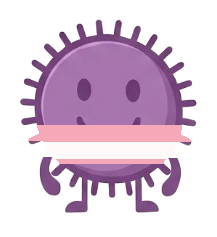
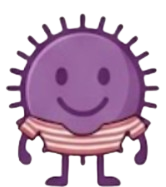
sprite

diff --git a/frontend/src/screens/GameScreen.jsx b/frontend/src/screens/GameScreen.jsx
@@ -11,9 +11,9 @@ import CliffJumpGame from './CliffJumpGame';
 import CliffDashGame from './CliffDashGame';
 import TumbleGame      from './TumbleGame';
 import HillDriveGame   from './HillDriveGame';
-import DormitorioSection, { ACCESORIOS } from '../components/DormitorioSection';
+import DormitorioSection from '../components/DormitorioSection';
 import SheepCountingGame from './SheepCountingGame';
-import AccesorioOverlay, { TrajeMarineroOverlay } from '../components/AccesorioOverlay';
+import AccesorioOverlay from '../components/AccesorioOverlay';
 
 
 import { sumarMoneda, CoinIcon } from '../utils/coinHelper';
@@ -73,7 +73,7 @@ const SPRITE_POR_SALTAR = '/juego/movimiento-mascota/por-saltar/por_saltar.png';
 const SPRITE_JUMP = '/juego/movimiento-mascota/satando/mascota-jump.png';
 const SPRITE_CAIDA = '/juego/movimiento-mascota/caida/mascota-caida.png';
 const SPRITE_COMPRESA = '/juego/compresa.png';
-const SPRITE_FALLBACK = '/home-walk-sit-float/mascota-flotando.png';
+const SPRITE_FALLBACK = '/home-walk-sit-float/flotando/mascota-flotando.png';
 
 // Tiempo de anticipación (frame "por saltar") antes del salto real
 const DURACION_POR_SALTAR_MS = 140;
@@ -582,77 +582,9 @@ export default function GameScreen({ onGameActiveChange }) {
                 }}
               />
 
-              {/* Accesorio equipado perfectamente posicionado en Nuvia */}
-              {accesorioEquipado && accesorioEquipado !== 'ninguno' && (() => {
-                const acc = ACCESORIOS.find(a => a.id === accesorioEquipado);
-                if (!acc) return null;
-
-                if (acc.id === 'zapatillas_conejo') {
-                  return (
-                    <>
-                      <div style={{
-                        position: 'absolute',
-                        bottom: '14px',
-                        left: '36px',
-                        fontSize: '22px',
-                        pointerEvents: 'none',
-                        zIndex: 5,
-                        filter: 'drop-shadow(0 3px 6px rgba(0,0,0,0.3))',
-                        transform: 'scaleX(-1)'
-                      }}>
-                        🐰
-                      </div>
-                      <div style={{
-                        position: 'absolute',
-                        bottom: '14px',
-                        right: '36px',
-                        fontSize: '22px',
-                        pointerEvents: 'none',
-                        zIndex: 5,
-                        filter: 'drop-shadow(0 3px 6px rgba(0,0,0,0.3))'
-                      }}>
-                        🐰
-                      </div>
-                    </>
-                  );
-                }
-
-                if (acc.id === 'traje_marinero') {
-                  return <TrajeMarineroOverlay width={86} height={56} top="70px" />;
-                }
-
-                // La camiseta de rayas va dibujada directamente en mascota-idle-rayas.png
-                if (acc.id === 'camiseta_rayas') return null;
-
-                // El conjunto de invierno ya lleva el gorro y la bufanda
-                // pintados directamente en mascota-idle-conjunto-invierno.png
-                if (acc.id === 'conjunto_invierno') return null;
-
-                let positionStyle = { top: '2px', left: '50%', transform: 'translateX(-50%)', fontSize: '34px' };
-                if (acc.id === 'antifaz') {
-                  positionStyle = { top: '2px', left: '50%', transform: 'translateX(-50%)', fontSize: '78px' };
-                } else if (acc.id === 'lazo_rosa') {
-                  if (accesorioLado === 'izquierda') {
-                    positionStyle = { top: '20px', left: '22px', fontSize: '32px', transform: 'rotate(-10deg)' };
-                  } else {
-                    positionStyle = { top: '20px', right: '22px', fontSize: '32px', transform: 'rotate(10deg)' };
-                  }
-                } else if (acc.id === 'corona_flores') {
-                  positionStyle = { top: '-6px', left: '50%', transform: 'translateX(-50%)', fontSize: '34px' };
-                }
-
-                return (
-                  <div style={{
-                    position: 'absolute',
-                    ...positionStyle,
-                    filter: 'drop-shadow(0 3px 6px rgba(0,0,0,0.3))',
-                    pointerEvents: 'none',
-                    zIndex: 5,
-                  }}>
-                    {acc.icono}
-                  </div>
-                );
-              })()}
+              {/* Todos los accesorios ya tienen su propio sprite de pose
+                  quieta (mascota-idle-*.png, elegido por getOutfitSprite
+                  más arriba), así que aquí no hace falta superponer nada. */}
             </div>
           </div>
         );

diff --git a/frontend/src/utils/outfitSprites.js b/frontend/src/utils/outfitSprites.js
@@ -2,32 +2,67 @@
 // flotando, caminando) con la ropa equipada dibujada encima. Cada entrada es
 // una copia de la imagen base con la prenda pintada a mano sobre esa pose.
 // Sprites de caminar/sentado/flotando (los de la mascota suelta por la
-// pantalla de inicio) viven en home-walk-sit-float/; los de idle/jump/caida
-// (usados dentro de los minijuegos) viven en juego/movimiento-mascota/.
+// pantalla de inicio) viven en home-walk-sit-float/{walk,sentada,flotando}/;
+// los de idle/jump/por_saltar/caida (usados dentro de los minijuegos) viven
+// en juego/movimiento-mascota/.
+//
+// Varios accesorios solo tienen arte propio para la pose "quieta" por ahora;
+// en el resto de poses caen al sprite base hasta que se añada más arte.
 const POR_ACCESORIO = {
   camiseta_rayas: {
     idle: '/juego/movimiento-mascota/quieta/mascota-idle-rayas.png',
     jump: '/juego/movimiento-mascota/satando/mascota-jump-rayas.png',
     caida: '/juego/movimiento-mascota/caida/mascota-caida-rayas.png',
-    sentado: '/home-walk-sit-float/mascota-sentado-rayas.png',
-    flotando: '/home-walk-sit-float/mascota-flotando-rayas.png',
-    walk: '/home-walk-sit-float/mascota-walk-rayas.png',
+    sentado: '/home-walk-sit-float/sentada/mascota-sentado-rayas.png',
+    flotando: '/home-walk-sit-float/flotando/mascota-flotando-rayas.png',
+    walk: '/home-walk-sit-float/walk/mascota-walk-rayas.png',
   },
-  // traje_marinero no tiene sprite de caminar propio por ahora (se está
-  // rehaciendo el arte); cae al sprite base hasta que se añada uno nuevo.
   conjunto_invierno: {
     idle: '/juego/movimiento-mascota/quieta/mascota-idle-conjunto-invierno.png',
     jump: '/juego/movimiento-mascota/satando/mascota-jump_conjunto_invierno.png',
     por_saltar: '/juego/movimiento-mascota/por-saltar/por_saltar_conjunto_invierno.png',
     caida: '/juego/movimiento-mascota/caida/mascota-caidaconjunto-invierno.png',
-    walk: '/home-walk-sit-float/mascota-walk-invierno.png',
-    sentado: '/home-walk-sit-float/mascota-sentado-invierno.png',
-    flotando: '/home-walk-sit-float/mascota-flotando_conjunto_invierno.png',
+    walk: '/home-walk-sit-float/walk/mascota-walk-invierno.png',
+    sentado: '/home-walk-sit-float/sentada/mascota-sentado-invierno.png',
+    flotando: '/home-walk-sit-float/flotando/mascota-flotando_conjunto_invierno.png',
   },
+  traje_marinero: {
+    idle: '/juego/movimiento-mascota/quieta/mascota-idle-marinero.png',
+    flotando: '/home-walk-sit-float/flotando/mascota-flotando-marinero.png',
+  },
+  gafas: {
+    idle: '/juego/movimiento-mascota/quieta/mascota-idle-gafas.png',
+    flotando: '/home-walk-sit-float/flotando/mascota-flotando-gafas.png',
+  },
+  mecanico: {
+    idle: '/juego/movimiento-mascota/quieta/mascota-idle-mecanico.png',
+    flotando: '/home-walk-sit-float/flotando/mascota-flotando-mecanico.png',
+  },
+  detective: {
+    idle: '/juego/movimiento-mascota/quieta/mascota-idle_detective.png',
+    flotando: '/home-walk-sit-float/flotando/mascota-flotando_detective.png',
+  },
+  antifaz: {
+    idle: '/juego/movimiento-mascota/quieta/mascota-idle-gafas-sol.png',
+  },
+  corona_flores: {
+    idle: '/juego/movimiento-mascota/quieta/mascota-idle-corona.png',
+  },
+  // lazo_rosa tiene 2 variantes de "quieta" (una por lado) — se resuelven
+  // aparte en getOutfitSprite porque dependen también de nuvia_accesorio_lado.
+};
+
+const LAZO_IDLE = {
+  izquierda: '/juego/movimiento-mascota/quieta/mascota-idle-lazo-izq.png',
+  derecha: '/juego/movimiento-mascota/quieta/mascota-idle-lazo-drc.png',
 };
 
 // pose: 'idle' | 'jump' | 'por_saltar' | 'caida' | 'sentado' | 'flotando' | 'walk'
 export function getOutfitSprite(pose, base) {
   const equipado = localStorage.getItem('nuvia_mascot_outfit');
+  if (equipado === 'lazo_rosa' && pose === 'idle') {
+    const lado = localStorage.getItem('nuvia_accesorio_lado') || 'derecha';
+    return LAZO_IDLE[lado] || base;
+  }
   return POR_ACCESORIO[equipado]?.[pose] || base;
 }

diff --git a/frontend/src/components/MascotaNuvia.jsx b/frontend/src/components/MascotaNuvia.jsx
@@ -67,8 +67,8 @@ export default function MascotaNuvia({ user }) {
       img.src = src;
     };
     check(WALK_SHEET_BASE, setWalkOk);
-    check('/home-walk-sit-float/mascota-sentado.png', setSentadoOk);
-    check('/home-walk-sit-float/mascota-flotando.png', setFlotandoOk);
+    check('/home-walk-sit-float/sentada/mascota-sentado.png', setSentadoOk);
+    check('/home-walk-sit-float/flotando/mascota-flotando.png', setFlotandoOk);
   }, [ocultar]);
 
   useEffect(() => {
@@ -156,8 +156,8 @@ export default function MascotaNuvia({ user }) {
 
   const usarSprites = walkOk === true;
   const walkSheetUrl = getWalkSheet();
-  const sentadoUrl = getOutfitSprite('sentado', '/home-walk-sit-float/mascota-sentado.png');
-  const flotandoUrl = getOutfitSprite('flotando', '/home-walk-sit-float/mascota-flotando.png');
+  const sentadoUrl = getOutfitSprite('sentado', '/home-walk-sit-float/sentada/mascota-sentado.png');
+  const flotandoUrl = getOutfitSprite('flotando', '/home-walk-sit-float/flotando/mascota-flotando.png');
 
   return (
     <>
@@ -436,35 +436,6 @@ export default function MascotaNuvia({ user }) {
               // dibujados directamente en mascota-walk-invierno.png
               if (acc.id === 'conjunto_invierno') return null;
 
-              if (acc.id === 'zapatillas_conejo') {
-                return (
-                  <>
-                    <div style={{
-                      position: 'absolute',
-                      bottom: '10%',
-                      left: '26%',
-                      fontSize: '16px',
-                      pointerEvents: 'none',
-                      zIndex: 20,
-                      filter: 'drop-shadow(0 2px 4px rgba(0,0,0,0.3))',
-                      transform: 'scaleX(-1)'
-                    }}>
-                      🐰
-                    </div>
-                    <div style={{
-                      position: 'absolute',
-                      bottom: '10%',
-                      right: '26%',
-                      fontSize: '16px',
-                      pointerEvents: 'none',
-                      zIndex: 20,
-                      filter: 'drop-shadow(0 2px 4px rgba(0,0,0,0.3))'
-                    }}>
-                      🐰
-                    </div>
-                  </>
-                );
-              }
 
               let positionStyle = { top: '-2px', left: '50%', transform: 'translateX(-50%)', fontSize: '24px' };
               if (acc.id === 'antifaz') {

diff --git a/frontend/src/screens/HillDriveGame.jsx b/frontend/src/screens/HillDriveGame.jsx
@@ -2,7 +2,6 @@ import React, { useState, useEffect, useRef, useCallback } from 'react';
 import { Play, Pause, ChevronLeft, Trophy } from 'lucide-react';
 import { ApiService } from '../api';
 import { sumarMoneda, CoinIcon } from '../utils/coinHelper';
-import { ACCESORIOS } from '../components/DormitorioSection';
 import RankingModal from '../components/RankingModal';
 import { getOutfitSprite } from '../utils/outfitSprites';
 
@@ -400,33 +399,9 @@ export default function HillDriveGame({ onSalir, onVolverAlListado }) {
       ctx.beginPath(); ctx.arc(15, -33, 2, 0, Math.PI * 2); ctx.fill();
     }
 
-    // Accesorio equipado (dibujado sobre la cabeza de la mascota)
-    const accesorioEquipado = localStorage.getItem('nuvia_mascot_outfit') || 'ninguno';
-    if (accesorioEquipado !== 'ninguno') {
-      const acc = ACCESORIOS.find(a => a.id === accesorioEquipado);
-      if (acc && acc.id !== 'zapatillas_conejo' && acc.id !== 'conjunto_invierno') {
-        const accesorioLado = localStorage.getItem('nuvia_accesorio_lado') || 'derecha';
-        let ax = 13, ay = -50, rotDeg = 0, fontSize = 16;
-        if (acc.id === 'lazo_rosa') {
-          ax = accesorioLado === 'izquierda' ? 6 : 20;
-          ay = -48;
-          fontSize = 11;
-          rotDeg = accesorioLado === 'izquierda' ? -15 : 15;
-        } else if (acc.id === 'antifaz') {
-          ay = -30; fontSize = 18;
-        } else if (acc.id === 'corona_flores') {
-          ay = -52; fontSize = 17;
-        }
-        ctx.save();
-        ctx.translate(ax, ay);
-        if (rotDeg) ctx.rotate(rotDeg * Math.PI / 180);
-        ctx.font = `${fontSize}px sans-serif`;
-        ctx.textAlign = 'center';
-        ctx.textBaseline = 'middle';
-        ctx.fillText(acc.icono, 0, 0);
-        ctx.restore();
-      }
-    }
+    // El accesorio equipado ya viene pintado en la propia imagen de
+    // petImgRef (getOutfitSprite('idle', ...) más arriba), así que no hace
+    // falta dibujar nada encima.
 
     // Cuerpo principal del coche (cubriendo los ejes de las ruedas)
     const bodyG = ctx.createLinearGradient(-CHASSIS_W, -20, CHASSIS_W, 0);

diff --git a/frontend/src/components/DormitorioSection.jsx b/frontend/src/components/DormitorioSection.jsx
@@ -11,11 +11,13 @@ export const ACCESORIOS = [
   { id: 'ninguno', nombre: 'Natural', icono: '✨', precio: 0, preview: null },
   { id: 'antifaz', nombre: 'Gafas de Sol', icono: '🕶', precio: 45, color: '#F472B6' },
   { id: 'lazo_rosa', nombre: 'Lazo Coquette', icono: '🎀', precio: 50, color: '#FB7185' },
-  { id: 'zapatillas_conejo', nombre: 'Zapatillas Conejo', icono: '🐰', precio: 60, color: '#FDE047' },
+  { id: 'gafas', nombre: 'Gafas', icono: '👓', precio: 60, color: '#FDE047' },
   { id: 'corona_flores', nombre: 'Corona', icono: '👑', precio: 80, color: '#34D399' },
   { id: 'traje_marinero', nombre: 'Traje de Marinero', icono: '⚓', precio: 70, color: '#1E3A8A' },
-  { id: 'camiseta_rayas', nombre: 'Camiseta de Rayas', icono: '👕', precio: 35, color: '#F5A8B8' },
+  { id: 'camiseta_rayas', nombre: 'Camiseta de Rayas', icono: '/rayas-icono.png', precio: 35, color: '#F5A8B8' },
   { id: 'conjunto_invierno', nombre: 'Conjunto de Invierno', icono: '/conjunto-invierno-icono.png', precio: 100, color: '#F472B6' },
+  { id: 'mecanico', nombre: 'Mecánico', icono: '🔧', precio: 65, color: '#60A5FA' },
+  { id: 'detective', nombre: 'Detective', icono: '🕵', precio: 90, color: '#A8825A' },
 ];
 
 // Generador de audio relajante sintético (Web Audio API)

diff --git a/frontend/src/components/AccesorioOverlay.jsx b/frontend/src/components/AccesorioOverlay.jsx
@@ -66,37 +66,6 @@ export default function AccesorioOverlay({ size = 28 }) {
   // directamente en mascota-idle-conjunto-invierno.png / -caida-...png
   if (acc.id === 'conjunto_invierno') return null;
 
-  if (acc.id === 'zapatillas_conejo') {
-    const slipperSize = size * 0.36;
-    return (
-      <>
-        <div style={{
-          position: 'absolute',
-          bottom: '10%',
-          left: '26%',
-          fontSize: `${slipperSize}px`,
-          pointerEvents: 'none',
-          zIndex: 10,
-          filter: 'drop-shadow(0 2px 4px rgba(0,0,0,0.3))',
-          transform: 'scaleX(-1)'
-        }}>
-          🐰
-        </div>
-        <div style={{
-          position: 'absolute',
-          bottom: '10%',
-          right: '26%',
-          fontSize: `${slipperSize}px`,
-          pointerEvents: 'none',
-          zIndex: 10,
-          filter: 'drop-shadow(0 2px 4px rgba(0,0,0,0.3))'
-        }}>
-          🐰
-        </div>
-      </>
-    );
-  }
-
   let positionStyle = { top: '-2px', left: '50%', transform: 'translateX(-50%)', fontSize: `${size}px` };
   if (acc.id === 'antifaz') {
     positionStyle = { top: `${size * 0.05}px`, left: '53%', transform: 'translateX(-50%)', fontSize: `${size * 0.56}px` };

diff --git a/frontend/src/utils/walkSheet.js b/frontend/src/utils/walkSheet.js
@@ -1,6 +1,6 @@
 import { getOutfitSprite } from './outfitSprites';
 
-export const WALK_SHEET_BASE = '/home-walk-sit-float/mascota-walk.png';
+export const WALK_SHEET_BASE = '/home-walk-sit-float/walk/mascota-walk.png';
 
 export function getWalkSheet() {
   return getOutfitSprite('walk', WALK_SHEET_BASE);

diff --git a/backend/app/routers/tienda.py b/backend/app/routers/tienda.py
@@ -46,11 +46,13 @@ PRECIOS_ACCESORIOS = {
     'ninguno': 0,
     'antifaz': 45,
     'lazo_rosa': 50,
-    'zapatillas_conejo': 60,
+    'gafas': 60,
     'corona_flores': 80,
     'traje_marinero': 70,
     'camiseta_rayas': 35,
     'conjunto_invierno': 100,
+    'mecanico': 65,
+    'detective': 90,
 }
 LADOS_VALIDOS = {'izquierda', 'derecha'}
 
